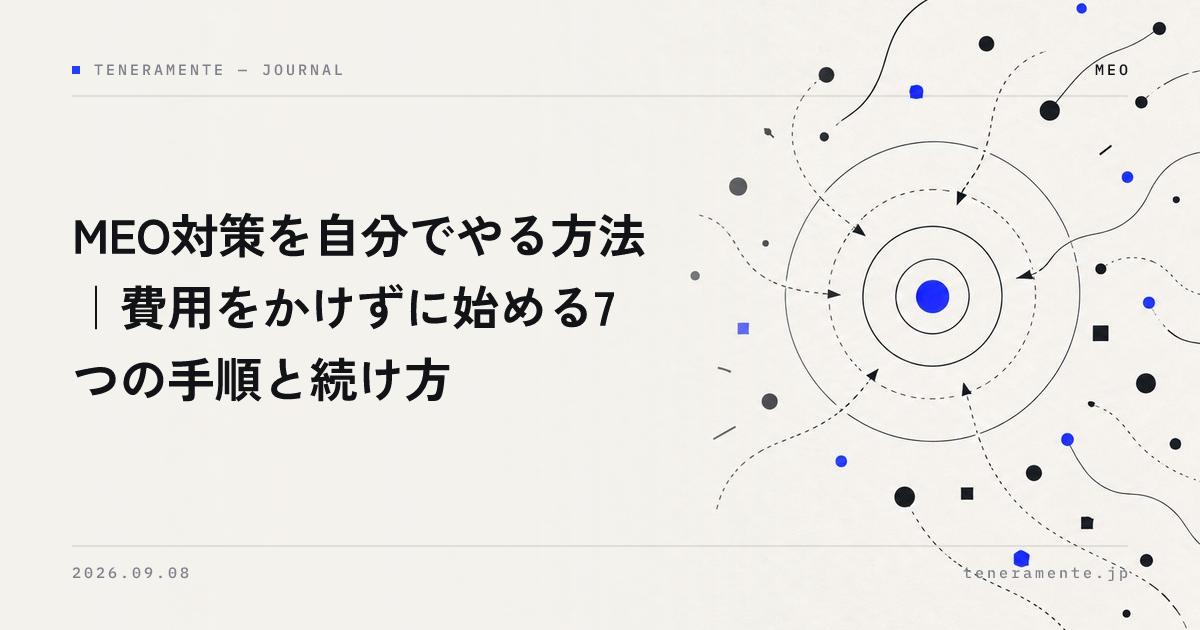
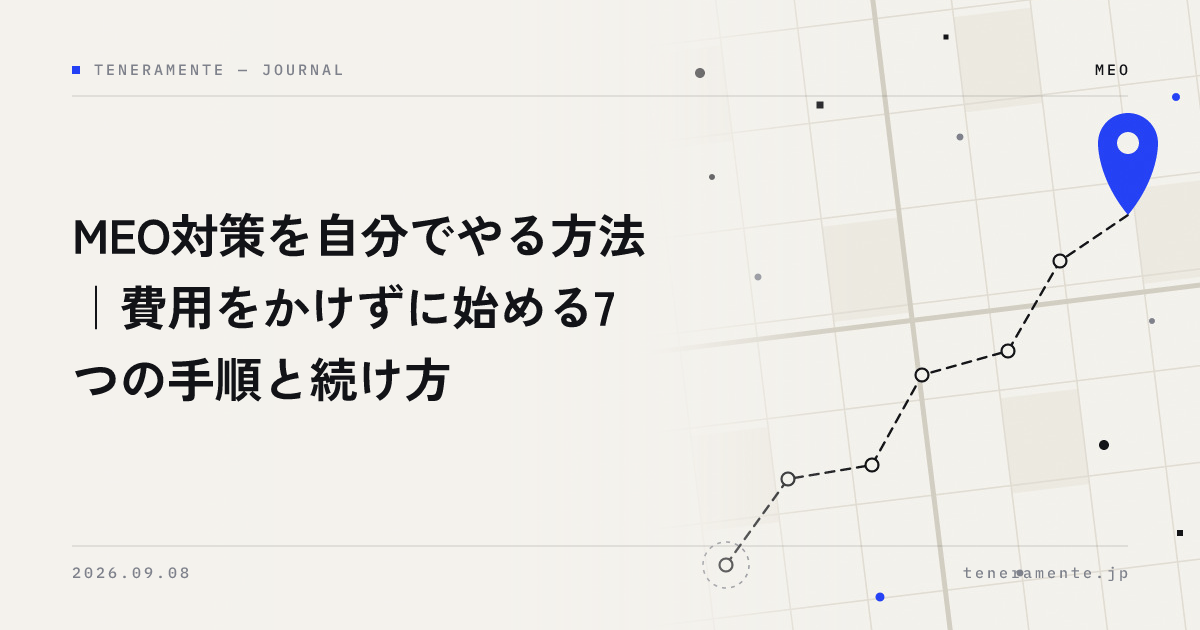
blog: 本日分2本のカバー背景を記事専用の絵柄に差し替え
MEO記事は街区のグリッドと7つの立ち寄り先を結ぶ経路、ミエルーム記事は
一次情報から書類へ展開する形の背景を新規に追加し、slug で割り当てた。

Claude-Session: https://claude.ai/code/session_0119N3coyd5xMMLJ2UdEztmU

diff --git a/scripts/build-mieroom.js b/scripts/build-mieroom.js
@@ -299,7 +299,7 @@ ${tags ? `\n  <div class="post-tags">${tags}</div>` : ''}
 }
 
 // 記事テーマに合わせたカバー画像（mieroom/assets/cover-bg/*.webp）
-const COVER_BY_SLUG = {"moushikomi-kanrihyo-tsukurikata": "moushikomi", "gyomu-kaizen-tool-teichaku": "teichaku", "tenpo-muke-tool-hitsuyo-kino": "nagare", "fudosan-chukai-gyomu-kaizen-tool-donyu": "teichaku", "fudosan-kaigyo-junbi-checklist": "kaigyo", "hitori-fudosan-kaigyo-tool": "kaigyo", "fudosan-ai-katsuyo-bamen": "ai-katsuyo", "fudosan-gyomu-tool-minaoshi": "nagare"};
+const COVER_BY_SLUG = {"moushikomi-kanrihyo-tsukurikata": "moushikomi", "gyomu-kaizen-tool-teichaku": "teichaku", "tenpo-muke-tool-hitsuyo-kino": "nagare", "fudosan-chukai-gyomu-kaizen-tool-donyu": "teichaku", "fudosan-kaigyo-junbi-checklist": "kaigyo", "hitori-fudosan-kaigyo-tool": "kaigyo", "fudosan-ai-katsuyo-bamen": "ai-katsuyo", "fudosan-gyomu-tool-minaoshi": "nagare", "chintai-keiyakusho-jusetsu-jitan": "keiyakusho"};
 const COVER_BY_CATEGORY = {"売上管理": "moushikomi", "業務効率化": "nagare", "集客・広告": "ai-katsuyo", "組織・育成": "kaigyo", "DX": "teichaku"};
 function coverName(p) { return COVER_BY_SLUG[p.slug] || COVER_BY_CATEGORY[p.category] || ''; }
 

diff --git a/scripts/gen-covers.js b/scripts/gen-covers.js
@@ -46,6 +46,7 @@ const BG_BY_SLUG = {
   '2026-09-04-ai-tool-kaihatsu-irai-junbi': 'app-7items',
   '2026-09-04-claude-code-app-kaihatsu-chigai': 'app-claudecode',
   '2026-09-04-ai-kaihatsu-kigyo-erabikata': 'app-erabikata',
+  '2026-09-08-meo-taisaku-jibun-de-yarikata': 'meo-diy',
 };
 const BG_BY_CATEGORY = { meo: 'meo-map', aio: 'aio-grid', ai: 'ai-wave', app: 'app-flow', hp: 'aio-grid' };
 const BG_DIR = path.join(__dirname, '..', 'assets', 'img', 'cover-bg');
